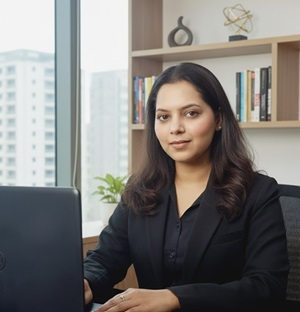
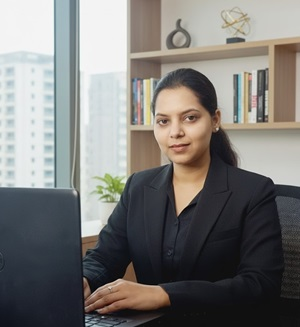
upated

diff --git a/frontend/src/components/homes/home-5/AboutAreaHomeFive.tsx b/frontend/src/components/homes/home-5/AboutAreaHomeFive.tsx
@@ -12,20 +12,22 @@ import about_shape_2 from "@/assets/img/shape/about-5-shape-2.svg";
 
 const about_content = {
 	sub_title: "About Us",
-	title: "Empowering Brand Growth Together",
-	sm_des: "At Vastora Tech, we empower brand growth by delivering tailored, innovative technology solutions that drive success and create lasting impact for your business.",
+	title: "Building eCommerce Success, Together",
+	sm_des: "At Vastora Tech, we empower businesses to launch, scale, and grow their online stores with smart, high-performance eCommerce solutions.",
 	about_data: [
 		{
 			id: 1,
 			cls: "about-5-item",
 			img: about_shape_1,
-			info: <>Our mission is to deliver innovative, user-friendly, and scalable e-commerce solutions that empower businesses to grow and succeed in the digital marketplace. We specialize in creating high-performance online stores that are secure, customizable, and optimized for seamless customer experiences.</>,
+			info: <>To empower businesses with smart, scalable eCommerce solutions that drive faster growth and better customer experiences.
+
+			</>,
 		},
 		{
 			id: 2,
 			cls: "about-5-item about-5-item-2",
 			img: about_shape_2,
-			info: <>At Vastora Tech, we deliver scalable and customized e-commerce solutions that help brands grow online with seamless performance, intuitive design, and reliable support.</>,
+			info: <>To be a trusted eCommerce partner helping brands of all sizes launch, scale, and succeed with innovative, technology-driven solutions.</>,
 		},
 	]
 

diff --git a/frontend/src/components/homes/home-5/ProjectFeaturHomefive.tsx b/frontend/src/components/homes/home-5/ProjectFeaturHomefive.tsx
@@ -34,9 +34,10 @@ const project_feature_content: project_feature_content_type = {
 	sub_title: "Best SEO results?",
 	title: "Optimize your website easier",
 	feature_lists: [
-		{ id: 1, title: "Performance", sm_info: "Slow pages,too-large CSS or HTML" },
-		{ id: 2, title: "Localization", sm_info: "All issues with hrefiang,language" },
-		{ id: 3, title: "Content quality", sm_info: "Unconsolidated duplicate page" },
+		
+		{ id: 2, title: "Performance Marketing That Scales", sm_info: "Smart targeting, optimized ads, and data-backed decisions to drive maximum ROI across Google & Meta." },
+		{ id: 3, title: "Social Media That Builds Trust", sm_info: "Brand storytelling, creative content, and engagement strategies designed to grow your audience organically." },
+		{ id: 1, title: "Full-Funnel Growth Strategy", sm_info: "From awareness to sales— we create marketing funnels that convert at every stage." },
 	]
 }
 const { shapes_data, sub_title, title, feature_lists } = project_feature_content
@@ -80,7 +81,7 @@ const ProjectFeaturHomefive = ({ style }: style_type) => {
 												</div>
 												<div className="seo-5-list-text">
 													<h4 className="title">{list.title}</h4>
-													<p>{list.sm_info}</p>
+													<p className="line-clamp-4">{list.sm_info}</p>
 												</div>
 											</div>
 										</li>